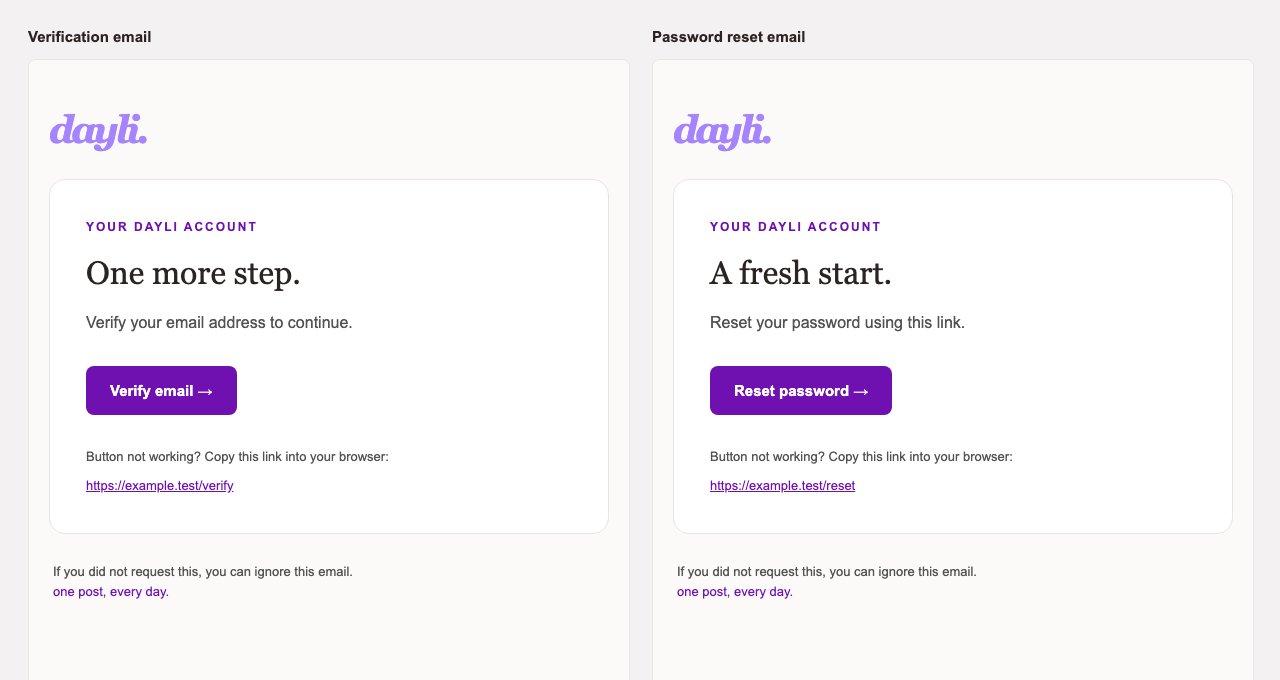
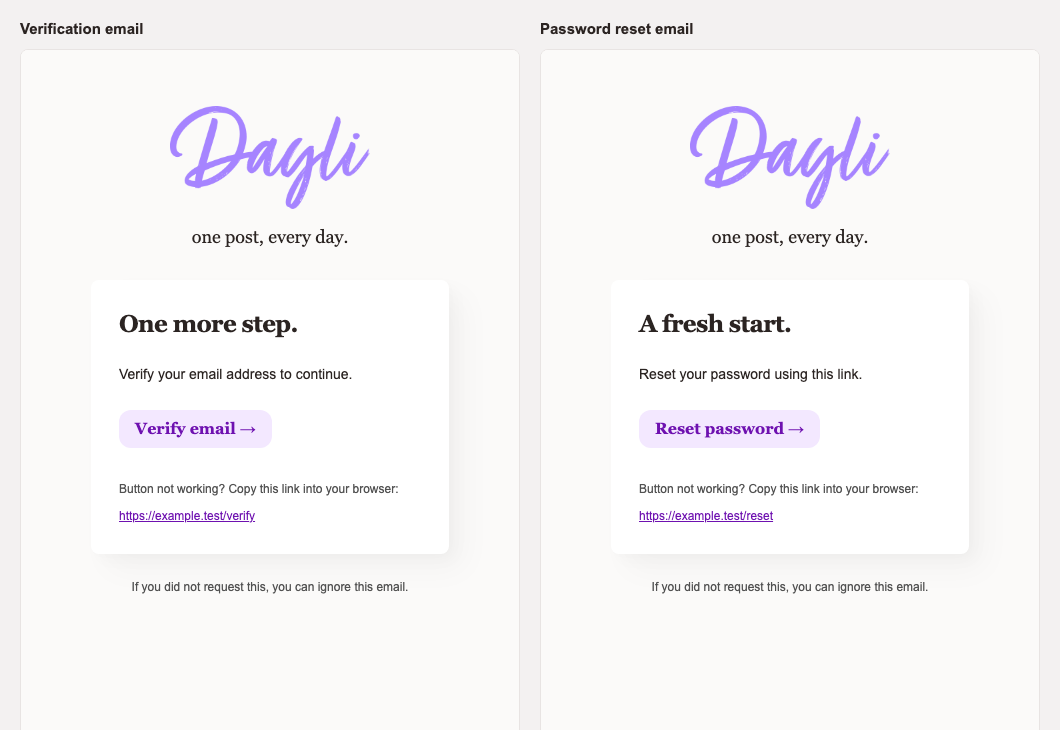
Match auth emails to Dayli web sign-in

diff --git a/apps/api/src/features/auth/dayli-logo.ts b/apps/api/src/features/auth/dayli-logo.ts
@@ -1,0 +1,3 @@
+// Rasterized from apps/web/public/dayli-logo.svg for Resend CID embedding.
+// Regenerate this constant if the web logo changes.
[1 lines of base64/hex data omitted]

diff --git a/apps/api/src/features/auth/resend.ts b/apps/api/src/features/auth/resend.ts
@@ -1,8 +1,11 @@
+import { dayliLogoPngBase64 } from "./dayli-logo";
+
 export interface ResendAuthEmail {
   to: string;
   subject: string;
   text: string;
   html: string;
+  attachments: { filename: string; content: string; content_id: string }[];
 }
 
 export interface ResendConfiguration {
@@ -41,6 +44,7 @@ export async function sendResendAuthEmail(
         subject: email.subject,
         text: email.text,
         html: email.html,
+        attachments: email.attachments,
       }),
       signal: controller.signal,
     });
@@ -80,30 +84,29 @@ function authenticationEmail(
     to,
     subject,
     text: `${intro}\n\n${url}\n\n${note}`,
+    attachments: [{ filename: "dayli-logo.png", content: dayliLogoPngBase64, content_id: "dayli-logo" }],
     html: `<!doctype html>
 <html lang="en">
 <head><meta charset="utf-8"><meta name="viewport" content="width=device-width, initial-scale=1"></head>
-<body style="margin:0;padding:0;background-color:#FBFAF9;color:#2B2422;font-family:Arial,Helvetica,sans-serif;">
+<body style="margin:0;padding:0;background-color:#FBFAF9;color:#2B2422;font-family:Epilogue,Arial,Helvetica,sans-serif;">
   <div style="display:none;font-size:1px;line-height:1px;color:#FBFAF9;max-height:0;max-width:0;opacity:0;overflow:hidden;">${safeIntro}</div>
   <table role="presentation" cellpadding="0" cellspacing="0" border="0" width="100%" style="background-color:#FBFAF9;">
-    <tr><td align="center" style="padding:48px 20px 56px;">
-      <table role="presentation" cellpadding="0" cellspacing="0" border="0" width="100%" style="max-width:560px;">
-        <tr><td style="padding:0 0 28px;">
-          <span style="font-family:Georgia,Times New Roman,serif;font-size:38px;font-style:italic;font-weight:bold;letter-spacing:-3px;color:#A684FF;">dayli.</span>
+    <tr><td align="center" style="padding:56px 20px 64px;">
+      <table role="presentation" cellpadding="0" cellspacing="0" border="0" width="100%" style="max-width:358px;">
+        <tr><td align="center" style="padding:0 0 32px;">
+          <img src="cid:dayli-logo" alt="Dayli" width="200" height="102" style="display:block;width:200px;height:auto;border:0;color:#6E11B0;font-family:Spectral,Georgia,serif;font-size:28px;" />
+          <p style="margin:16px 0 0;color:#2B2422;font-family:Spectral,Georgia,serif;font-size:18px;font-weight:500;line-height:1.3;">one post, every day.</p>
         </td></tr>
-        <tr><td style="background-color:#FFFFFF;border:1px solid #E8E4E3;border-radius:16px;padding:40px 36px 36px;">
-          <p style="margin:0 0 20px;color:#6E11B0;font-size:12px;font-weight:bold;letter-spacing:2px;text-transform:uppercase;">YOUR DAYLI ACCOUNT</p>
-          <h1 style="margin:0 0 18px;color:#2B2422;font-family:Georgia,Times New Roman,serif;font-size:32px;font-weight:normal;line-height:1.2;">${safeHeading}</h1>
-          <p style="margin:0 0 30px;color:#525252;font-size:16px;line-height:1.6;">${safeIntro}</p>
-          <table role="presentation" cellpadding="0" cellspacing="0" border="0"><tr><td style="background-color:#6E11B0;border-radius:8px;">
-            <a href="${safeUrl}" style="display:inline-block;padding:14px 24px;color:#FFFFFF;font-size:15px;font-weight:bold;line-height:1.4;text-decoration:none;">${safeAction} &rarr;</a>
+        <tr><td style="background-color:#FFFFFF;border-radius:8px;padding:28px;box-shadow:2px 2px 8px rgba(0,0,0,0.01),8px 8px 16px rgba(0,0,0,0.02),16px 16px 32px rgba(0,0,0,0.03);">
+          <h1 style="margin:0 0 24px;color:#2B2422;font-family:Spectral,Georgia,serif;font-size:24px;font-weight:600;letter-spacing:-0.6px;line-height:1.3;">${safeHeading}</h1>
+          <p style="margin:0 0 24px;color:#2B2422;font-size:14px;line-height:1.6;">${safeIntro}</p>
+          <table role="presentation" cellpadding="0" cellspacing="0" border="0"><tr><td style="background-color:#F3E8FF;border-radius:12px;">
+            <a href="${safeUrl}" style="display:inline-block;padding:8px 16px;color:#6E11B0;font-family:Spectral,Georgia,serif;font-size:16px;font-weight:600;line-height:1.4;text-decoration:none;">${safeAction} &rarr;</a>
           </td></tr></table>
-          <p style="margin:32px 0 8px;color:#525252;font-size:13px;line-height:1.6;">Button not working? Copy this link into your browser:</p>
-          <p style="margin:0;overflow-wrap:anywhere;word-break:break-all;font-size:13px;line-height:1.6;"><a href="${safeUrl}" style="color:#6E11B0;text-decoration:underline;">${safeUrl}</a></p>
+          <p style="margin:32px 0 8px;color:#525252;font-size:12px;line-height:1.6;">Button not working? Copy this link into your browser:</p>
+          <p style="margin:0;overflow-wrap:anywhere;word-break:break-all;font-size:12px;line-height:1.6;"><a href="${safeUrl}" style="color:#6E11B0;text-decoration:underline;">${safeUrl}</a></p>
         </td></tr>
-        <tr><td style="padding:28px 4px 0;color:#525252;font-size:13px;line-height:1.6;">
-          ${note}<br><span style="color:#6E11B0;">one post, every day.</span>
-        </td></tr>
+        <tr><td align="center" style="padding:24px 8px 0;color:#525252;font-size:12px;line-height:1.6;">${note}</td></tr>
       </table>
     </td></tr>
   </table>

diff --git a/apps/api/src/features/auth/resend.test.ts b/apps/api/src/features/auth/resend.test.ts
@@ -15,6 +15,14 @@ describe("Resend authentication delivery", () => {
       expect(init?.method).toBe("POST");
       expect(init?.headers).toMatchObject({ authorization: "Bearer test-resend-key" });
       expect(init?.body).toContain("Verify your Dayli email");
+      const body = JSON.parse(String(init?.body));
+      expect(body.attachments).toEqual([{
+        filename: "dayli-logo.png",
+        content: expect.any(String),
+        content_id: "dayli-logo",
+      }]);
+      expect(body.attachments[0].content.length).toBeGreaterThan(1000);
+      expect(body.html).toContain('src="cid:dayli-logo"');
       return new Response("{}", { status: 200 });
     });
 
@@ -35,8 +43,10 @@ describe("Resend authentication delivery", () => {
     expect(email.text).toContain(`${intro}\n\n${url}`);
     expect(email.text).toContain("If you did not request this");
     expect(email.html).toContain("#FBFAF9");
-    expect(email.html).toContain("#A684FF");
+    expect(email.html).toContain("#F3E8FF");
     expect(email.html).toContain("one post, every day.");
+    expect(email.html).toContain("font-family:Spectral,Georgia,serif");
+    expect(email.html).toContain('src="cid:dayli-logo"');
     expect(email.html).toContain(`${action} &rarr;`);
     expect(email.html).toContain('href="https://example.test/auth?token=a&amp;next=&quot;&lt;unsafe&gt;&quot;"');
     expect(email.html).not.toContain(url);
